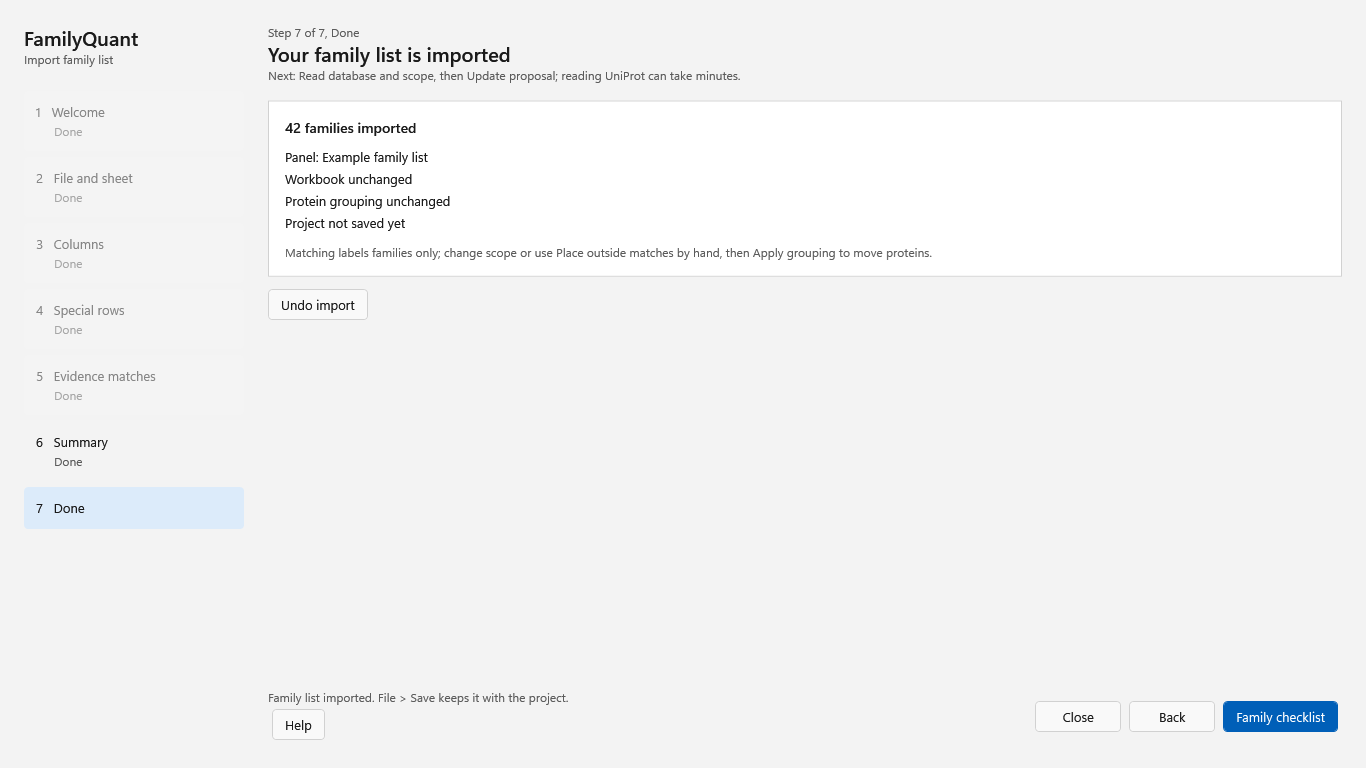
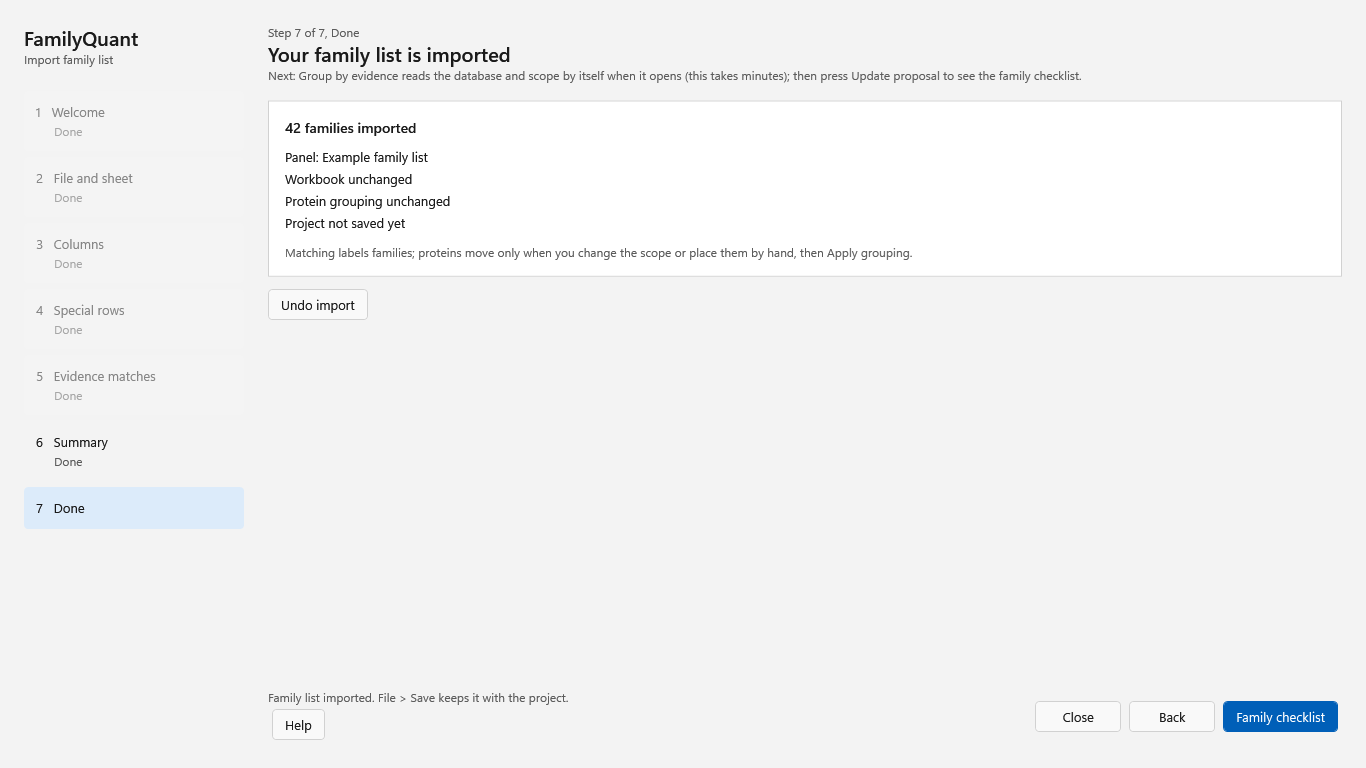
Z12p2c1-fix The chapter quotes the reworded Done lines and names the hand placement button
After merging fq/v2111-home 7b2cfc75 (Z12p5g's wording: the review reads the database and scope by itself;
proteins move only after a scope change or a hand placement, then Apply grouping). The Done part keeps
quoting FamilyListImportHelp.DoneNext and MatchingEffect, rewrites its own sentences to match them, and
names Place outside matches by hand in the Family checklist, so the label check holds (it failed 35/1
on the merge alone). The test pins the two phrases its sentences rely on, and no longer calls the Help
route tests, which FQHome runs as --test-import-help-routes. Only the Done picture changed on retake.

Changed region(s): [[0.2152, 0.0938, 0.7994, 0.125], [0.3075, 0.3125, 0.6764, 0.3438]]

diff --git a/FamilyQuant.Tests/Program.FamilyListImportGuide.cs b/FamilyQuant.Tests/Program.FamilyListImportGuide.cs
@@ -79,6 +79,10 @@ internal static partial class Program
         Check("the chapter quotes the wizard's own lines: decisions, the Quantify question and the Done page",
             text.Contains(FamilyListImportHelp.DecisionsSummary, StringComparison.Ordinal) && text.Contains(FamilyListImportHelp.DoneNext, StringComparison.Ordinal)
             && text.Contains(FamilyListImportHelp.MatchingEffect, StringComparison.Ordinal)
+            // The chapter's own sentences around the Done lines assume this wording (Z12p5g, 7b2cfc75): the read starts by
+            // itself, and proteins move only after a scope change or a hand placement plus Apply grouping.
+            && FamilyListImportHelp.DoneNext.Contains("reads the database and scope by itself", StringComparison.Ordinal)
+            && FamilyListImportHelp.MatchingEffect.Contains("place them by hand, then Apply grouping", StringComparison.Ordinal)
             && program.Contains("Quantify every family for this import?", StringComparison.Ordinal) && text.Contains("Quantify every family for this import?", StringComparison.Ordinal)
             && program.Contains("\"Could \" + DecisionHint + \" hold the family actions?\"", StringComparison.Ordinal) && text.Contains("hold the family actions?", StringComparison.Ordinal));
         Check("the chapter says there is no conditional action and that the program's own labels are confirmed at once",
@@ -92,7 +96,7 @@ internal static partial class Program
         Check("no em or en dash in the chapter", !text.Contains('\u2013') && !text.Contains('\u2014'));
         string index = File.ReadAllText(Path.Combine(GoldenNumbers.FindRepository(), "docs", "INDEX.md"));
         Check("docs/INDEX.md lists the command that takes the chapter's pictures", index.Contains("`--import-guide-screens <output-dir> [--dark]`", StringComparison.Ordinal));
-        FamilyListImportHelpRouteTests(output);
+        // F1 and Help wiring is FQHome's: --test-import-help-routes runs it in the suite.
 
         var previousTheme = Themes.ThemeManager.Current;
         try

diff --git a/FamilyQuant/FamilyListImportGuide.cs b/FamilyQuant/FamilyListImportGuide.cs
@@ -85,8 +85,8 @@ public static class FamilyListImportGuide
         new FamilyListImportGuideSection("done", "7. Done", "07-done.png", "The list is imported; the workbook and the protein grouping are unchanged.", new[]
         {
             "The family list is imported. The workbook and the protein grouping are unchanged, and the project is not saved yet: File > Save keeps the panel with it.",
-            "The line under the title names the next steps: " + FamilyListImportHelp.DoneNext + " Family checklist closes the wizard and opens Group by evidence, which starts Read database and scope by itself. When that read is done, press Update proposal; the review then shows its Family checklist tab, where you review which proteins belong in each family.",
-            "The page also says: " + FamilyListImportHelp.MatchingEffect + " Importing the list and confirming matches move no protein by themselves.",
+            "The line under the title names the next steps: " + FamilyListImportHelp.DoneNext + " Family checklist closes the wizard and opens Group by evidence. When its Read database and scope step is done, press Update proposal; the review then shows its Family checklist tab, where you review which proteins belong in each family.",
+            "The page also says: " + FamilyListImportHelp.MatchingEffect + " Importing the list and confirming matches move no protein by themselves. To place proteins by hand, use Place outside matches by hand in the Family checklist.",
             "Undo import restores the previous panel while the import is still the latest change. Close keeps the imported panel.",
         }),
         new FamilyListImportGuideSection("keyboard", "Keyboard", "", "", new[]
